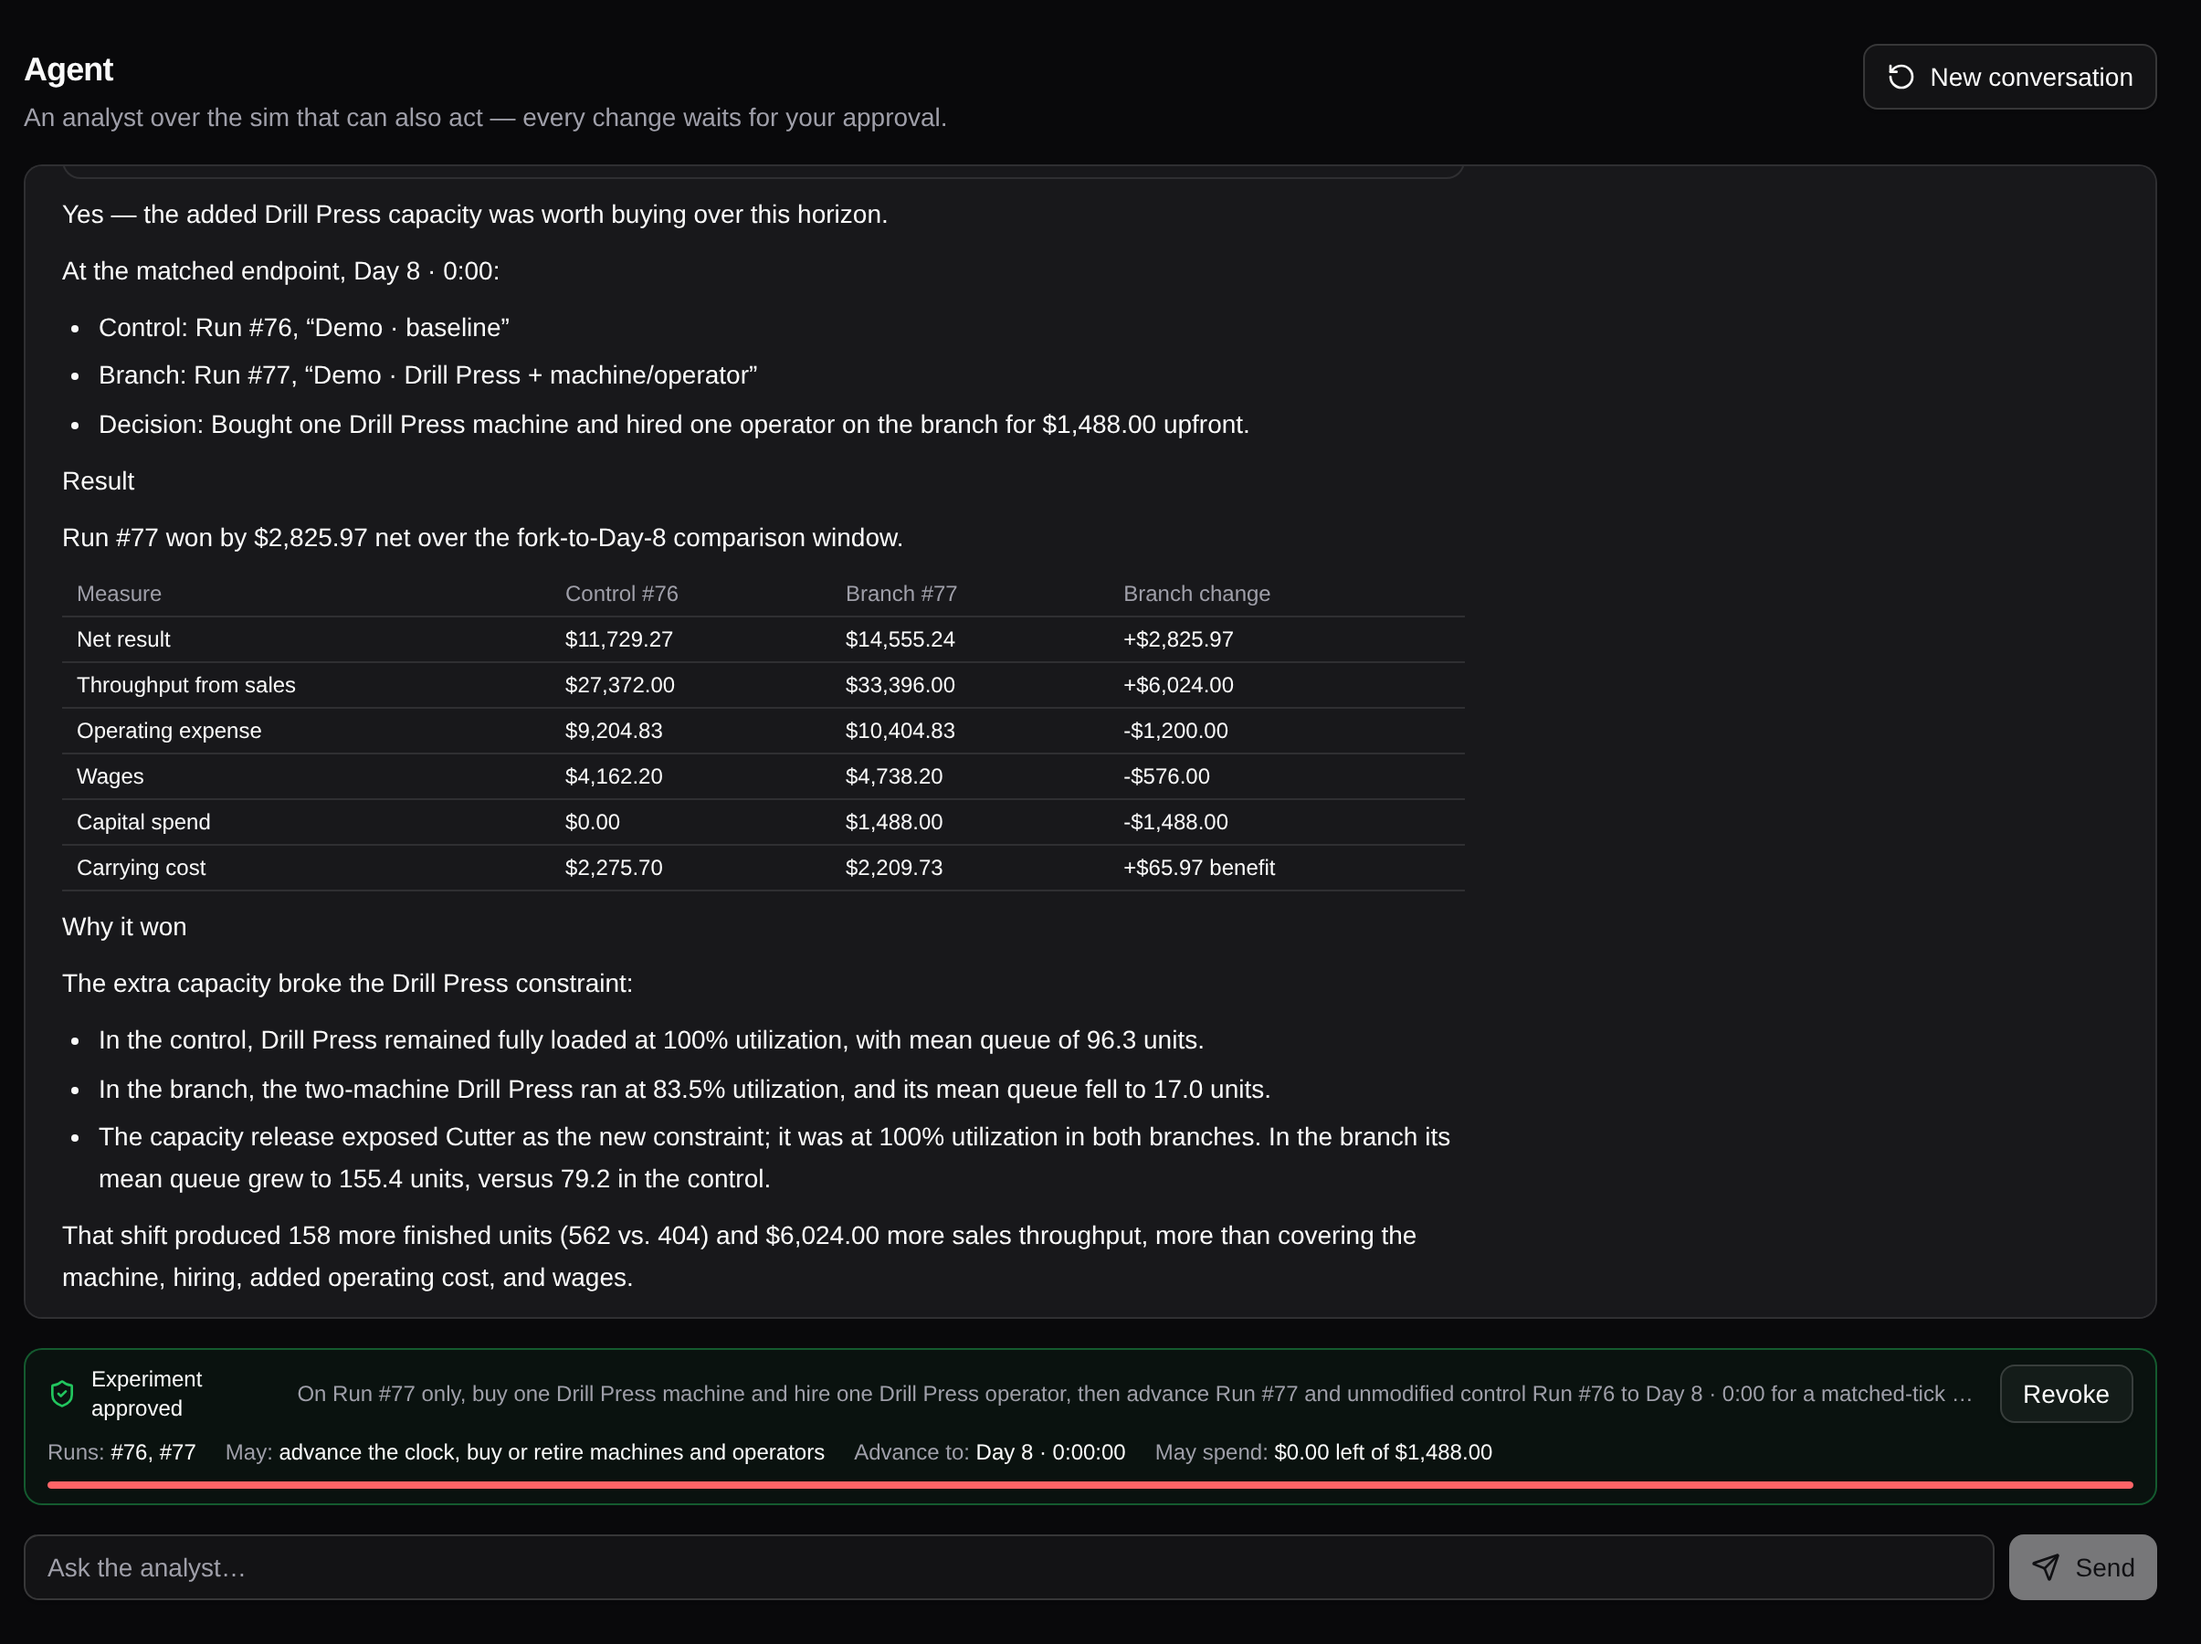
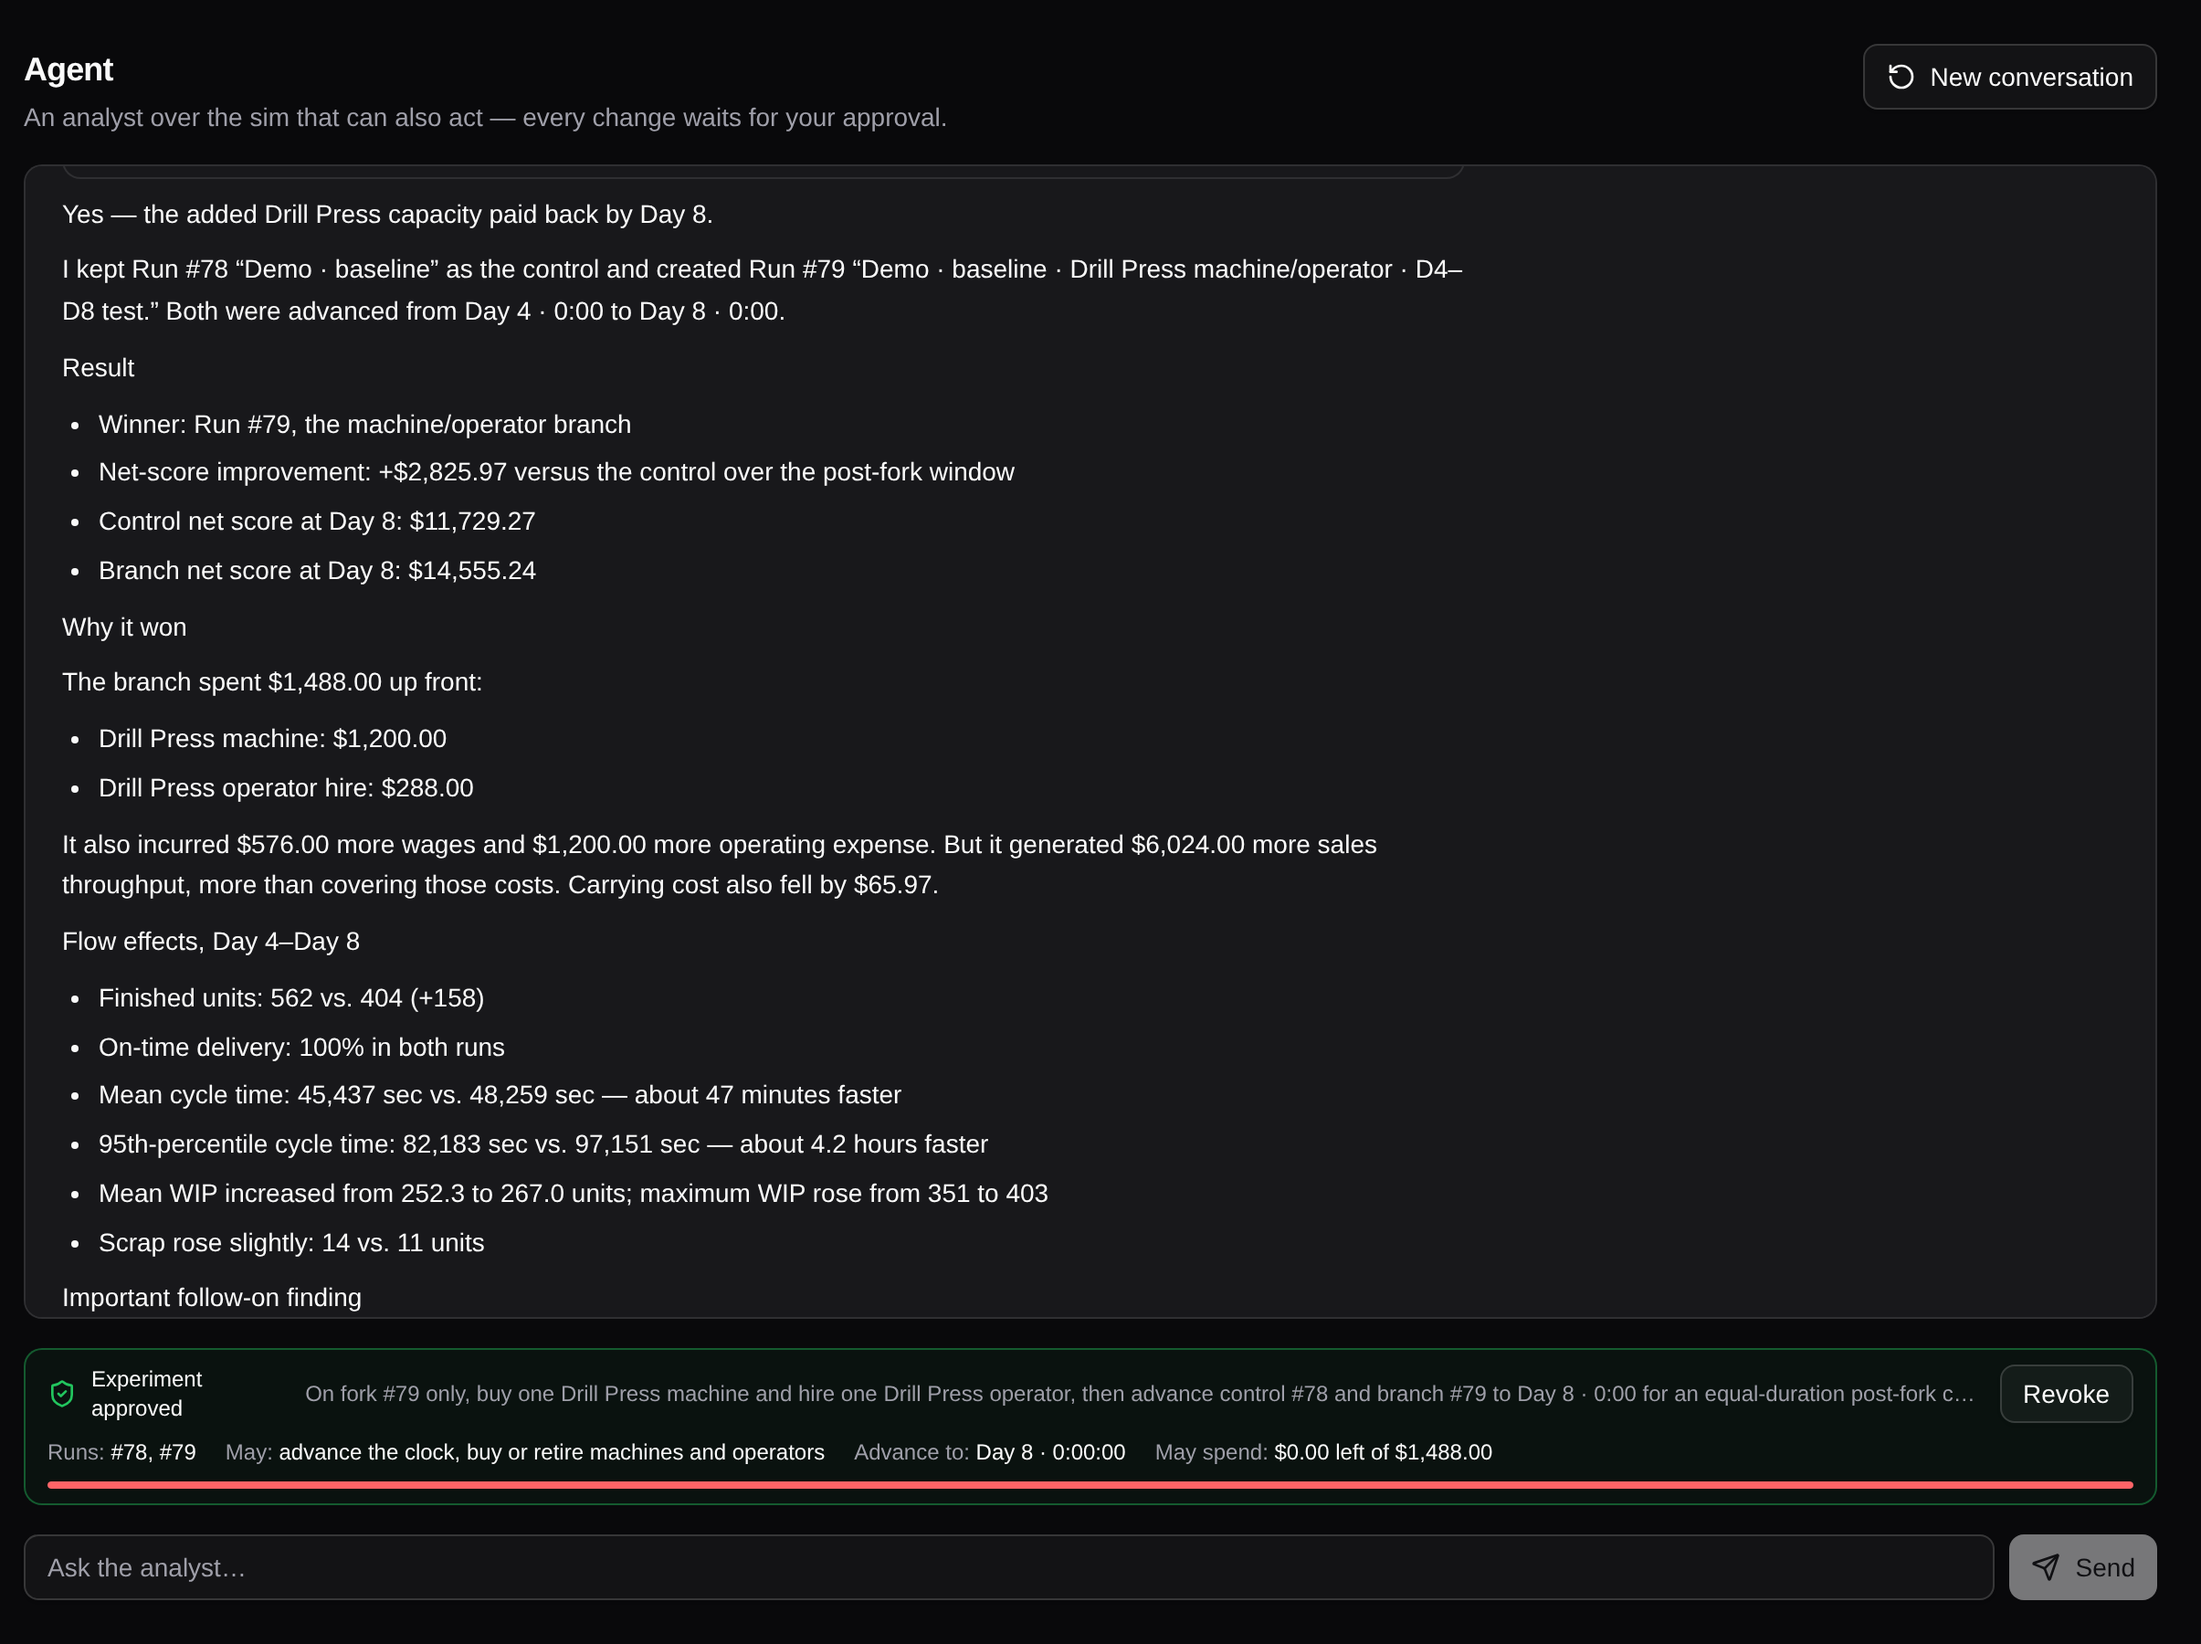
docs: re-record the agent walkthrough with the approval and reply fixes

diff --git a/README.md b/README.md
@@ -12,7 +12,7 @@ worth. Or ask the agent to do it:
 
 ![The agent running a full experiment: it reads the run, proposes a bounded plan, forks, buys a machine, advances both branches with live progress, and returns a computed verdict](docs/screenshots/agent-experiment.gif)
 
-> *"Run #76 is at Day 4 · 0:00. Is a second machine at its constraint worth
+> *"Run #78 is at Day 4 · 0:00. Is a second machine at its constraint worth
 > buying?"* The agent finds the constraint and proposes an experiment. Once a
 > person approves it, the agent forks the run, buys the machine, hires an
 > operator and advances both branches to the same tick, showing progress as
@@ -124,16 +124,15 @@ time window, not a single snapshot.
 
 ### Ask it to test a decision
 
-> *"Run #76 is at Day 4 · 0:00. Is a second machine at its constraint worth
+> *"Run #78 is at Day 4 · 0:00. Is a second machine at its constraint worth
 > buying? Fork it into a control and a branch that buys one and hires someone
 > to run it, advance both to Day 8 · 0:00, and tell me which won and why."*
 
 ![The agent reads the run, names the Drill Press as the constraint, and proposes a bounded experiment that waits for approval](docs/screenshots/agent-plan.png)
 
 It starts by reading the run. It finds the Drill Press at 99.2% utilization
-over days 1–3 (the Cutter is next at 93.4%) with 62 units queued, and prices
-the decision at the run's frozen rates: $1,200 for the machine and $288 for
-the hire. Then, instead of stopping at each write, it calls
+over the first three days and prices the decision at the run's frozen rates:
+$1,200 for the machine and $288 for the hire. Then, instead of stopping at each write, it calls
 `propose_experiment`, so a person approves the **whole experiment** once. The
 approval is bounded on four axes, and each one pauses on its own if exceeded:
 
@@ -144,9 +143,9 @@ approval is bounded on four axes, and each one pauses on its own if exceeded:
 - **A spend ceiling,** checked against the sim's frozen price for each action,
   never against a figure the model supplied.
 
-The fork's id (#77) didn't exist when the first plan was approved, so that
-plan can't cover it. The agent forks, then asks again: buy and hire on #77
-only, advance both runs to Day 8, with a ceiling of $1,488.
+The fork's id (#79) didn't exist when the first plan was approved, so that
+plan can't cover it. The agent forks, then asks again for exactly what's
+left: buy and hire on #79 only, then advance both runs to Day 8.
 
 ![The standing grant shown as a banner with its bounds and remaining spend, above a streaming progress bar with Stop](docs/screenshots/agent-running.png)
 
@@ -176,16 +175,19 @@ profit.
 Here it reads: **+$6,024 of throughput** paid for $1,488 of capital, $1,200
 of extra rent and $576 of extra wages, and the branch won by **$2,825.97 in
 four days**, with 158 more units shipped and the 95th-percentile cycle time
-down 4.2 hours. Because the simulation is deterministic, an earlier,
-independent run of the same experiment (#72 vs #73) produced the same
-$2,825.97 to the cent.
+down 4.2 hours. Because the simulation is deterministic, this isn't a lucky
+draw: the agent ran the same experiment three times while these screenshots
+were being made (#72 vs #73, #76 vs #77, #78 vs #79), in separate
+conversations, and all three produced $2,825.97 to the cent.
 
 ![The agent's write-up: the result table, and why it won, with the constraint moving to the Cutter](docs/screenshots/agent-answer.png)
 
-The write-up adds what the table can't show: **the bottleneck moved**. With
-the Drill Press relieved (down to 83.5% utilization, its queue from 96 to 17),
-the Cutter is now pinned at 100% with its queue doubled. That makes the next
-decision a different decision.
+The write-up explains the result in the factory's terms: what the $1,488 bought,
+the extra wages and rent it committed to, and the flow effects behind the
+$6,024 of throughput. The verdict's last line shows something the agent picks
+up on next: **the constraint moved**. With the Drill Press relieved, the
+Cutter (work center 95) is now pinned at 100%, which makes the next decision
+a different decision.
 
 ![Both branches' net-profit curves on one chart: identical up to the fork line, the branch dropping by the capital spend, then overtaking the control and pulling away](docs/screenshots/trends-fork-payback.png)
 
@@ -201,8 +203,9 @@ read the payback period straight off the chart.
 Outside an approved plan, every write pauses. What you approve is **what the
 sim says, not what the model said**. The gate fetches the run itself and shows
 its real name, its tick, the run's frozen price and the configuration the
-action would produce. Here, buying a second Cutter with no operator to hire
-leaves capacity at one staffed machine; the agent flagged that before asking.
+action would produce. Here the Cutter is the new constraint (100% utilized,
+234 parts queued), but it has one operator, so a second machine with nobody to
+run it leaves capacity at one. The agent flagged that before asking.
 Declining doesn't cancel the turn. The refusal comes back as a tool result,
 and the agent reads it and explains why the purchase alone wouldn't have
 helped.
